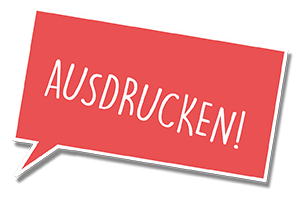
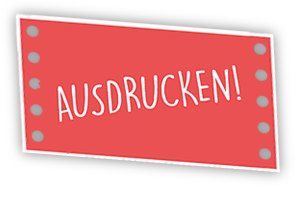
tipp buttons updated, tip list to navigate

Changed region(s): [[0.0302, 0.0305, 0.9966, 0.9746]]

diff --git a/src/components/speakScreen.component.js b/src/components/speakScreen.component.js
@@ -201,6 +201,10 @@ const Onscreen  = () => {
 
     let timeout = 60000 // general screensaver-time 
     let explainTimeout 
+    let tipNo = 0
+
+    var noofTimeOuts = setTimeout( function(){});
+    for (var i = 0 ; i < noofTimeOuts ; i++) clearTimeout(i);
 
     const restartTimeout = () => {
       clearTimeout(explainTimeout);
@@ -213,17 +217,24 @@ const Onscreen  = () => {
     }
 
     useEffect(() => {
-      clearTimeout(explainTimeout)
       restartTimeout()
     }, [restartTimeout, explainTimeout]);
 
     console.log('STATUS: ' + onscreenStatus);
 
-    const getTip  = () => {
+    const nextTip  = (tipNo) => {
       TipDataService.getCatTips(onscreenStatus)
       .then(response => {
-        console.log("CONTENT: ",response.data[0].content)
-        setTip(response.data[0].content)
+        console.log("DATA: ",response.data)
+        console.log(tipNo, response.data.length)
+        if (tipNo  < response.data.length){
+          console.log("CONTENT: ",response.data[tipNo].content)
+          setTip(response.data[tipNo].content)
+          restartTimeout()
+        } else {
+          clearTimeout(explainTimeout);
+          setOnscreenStatus('BUBBLES')
+        } 
       })
       .catch(e => {
         //console.log(e);#
@@ -233,7 +244,8 @@ const Onscreen  = () => {
 
     useEffect(() => {
       
-    getTip()
+    nextTip(tipNo)
+    restartTimeout()
 
     }, []);
 
@@ -274,6 +286,20 @@ const Onscreen  = () => {
       );
     };
 
+    const NextButtonComponent = () => {
+      const handleClick = () => {
+        tipNo++
+        console.log('NEXT TIP', tipNo);
+        clearTimeout(explainTimeout);
+        nextTip(tipNo)
+        
+      };
+
+      return (
+        <button type="button" className="nextButton" onClick={ handleClick }></button>
+      );
+    };
+
 
     return (
       <div>
@@ -288,6 +314,7 @@ const Onscreen  = () => {
       </div>
       <PrintButtonComponent/>
       <TipButtonComponent/>
+      <NextButtonComponent/>
       </div>
     )
 
@@ -309,6 +336,9 @@ const Onscreen  = () => {
     const [charsLeft, setCharsLeft] = useState(maxChars)
     let timeout = 30000 // general screensaver-time 
     let typewriterTimeout 
+
+    var noofTimeOuts = setTimeout( function(){});
+    for (var i = 0 ; i < noofTimeOuts ; i++) clearTimeout(i);
     
 
     const restartTimeout = () => {

diff --git a/src/App.css b/src/App.css
@@ -784,8 +784,8 @@ div {
 
 .printButton{
   position: absolute;
-  top: 850px;
-  left: 1230px;
+  top: 860px;
+  left: 890px;
   width: 500px;
   height: 330px;
   outline: none;
@@ -798,12 +798,25 @@ div {
 .tipButton{
   position: absolute;
   top: 830px;
-  left: 1560px;
+  left: 1210px;
   width: 500px;
   height: 330px;
   outline: none;
   background-color: transparent;
   background-image: url('./media/images/TipButton.png');
+  background-repeat: no-repeat;
+  border: 0px solid rgb(250, 250, 250);
+}
+
+.nextButton{
+  position: absolute;
+  top: 850px;
+  left: 1540px;
+  width: 500px;
+  height: 330px;
+  outline: none;
+  background-color: transparent;
+  background-image: url('./media/images/NextButton.png');
   background-repeat: no-repeat;
   border: 0px solid rgb(250, 250, 250);
 }

diff --git a/src/components/onscreenOrange.component.js b/src/components/onscreenOrange.component.js
@@ -104,6 +104,9 @@ const Onscreen  = () => {
     let timeout = 15000 // general screensaver-time 
     let typewriterTimeout 
 
+    var noofTimeOuts = setTimeout( function(){});
+    for (var i = 0 ; i < noofTimeOuts ; i++) clearTimeout(i);
+
     const restartTimeout = () => {
       clearTimeout(typewriterTimeout);
       typewriterTimeout = setTimeout(function() {

diff --git a/src/components/onscreenYellow.component.js b/src/components/onscreenYellow.component.js
@@ -104,6 +104,9 @@ const Onscreen  = () => {
     let timeout = 15000 // general screensaver-time 
     let typewriterTimeout 
 
+    var noofTimeOuts = setTimeout( function(){});
+    for (var i = 0 ; i < noofTimeOuts ; i++) clearTimeout(i);
+
 
     const restartTimeout = () => {
       clearTimeout(typewriterTimeout);
